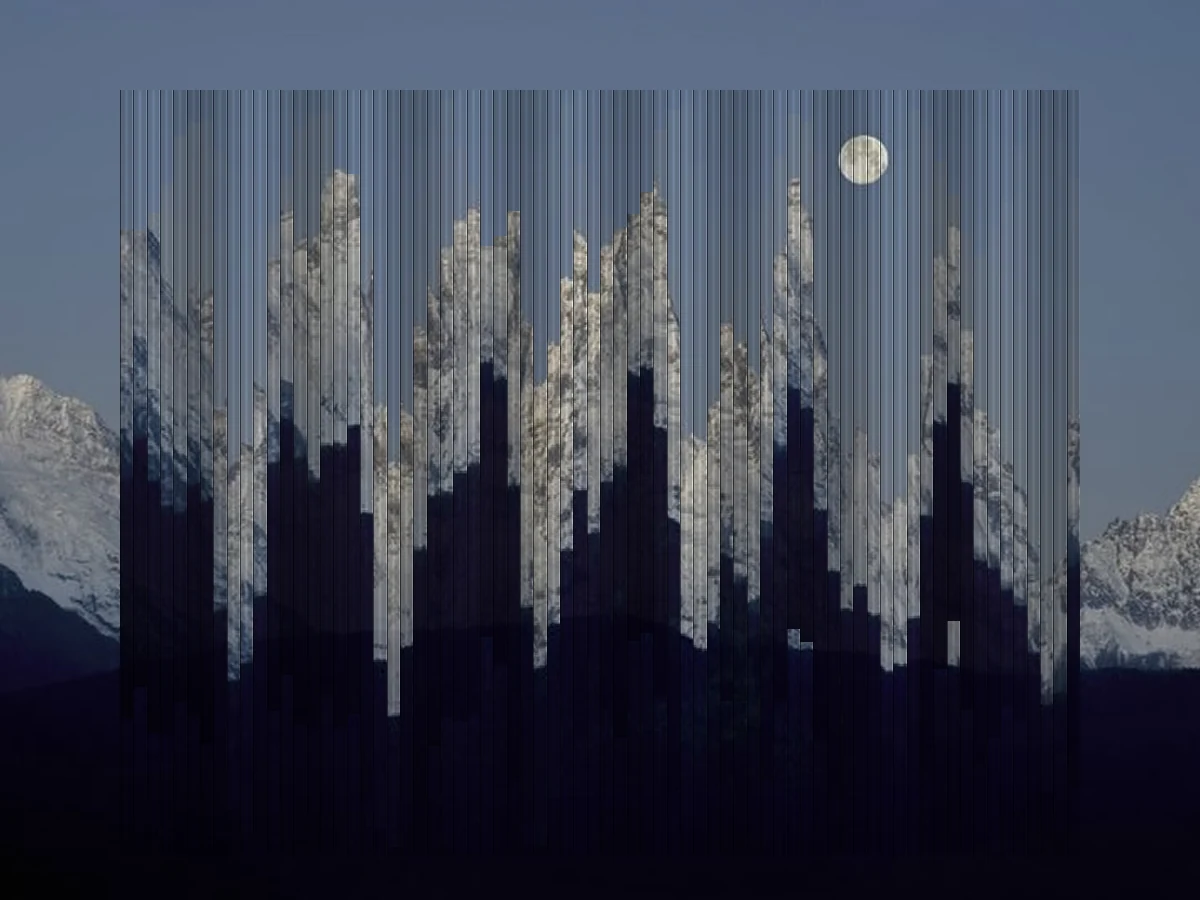
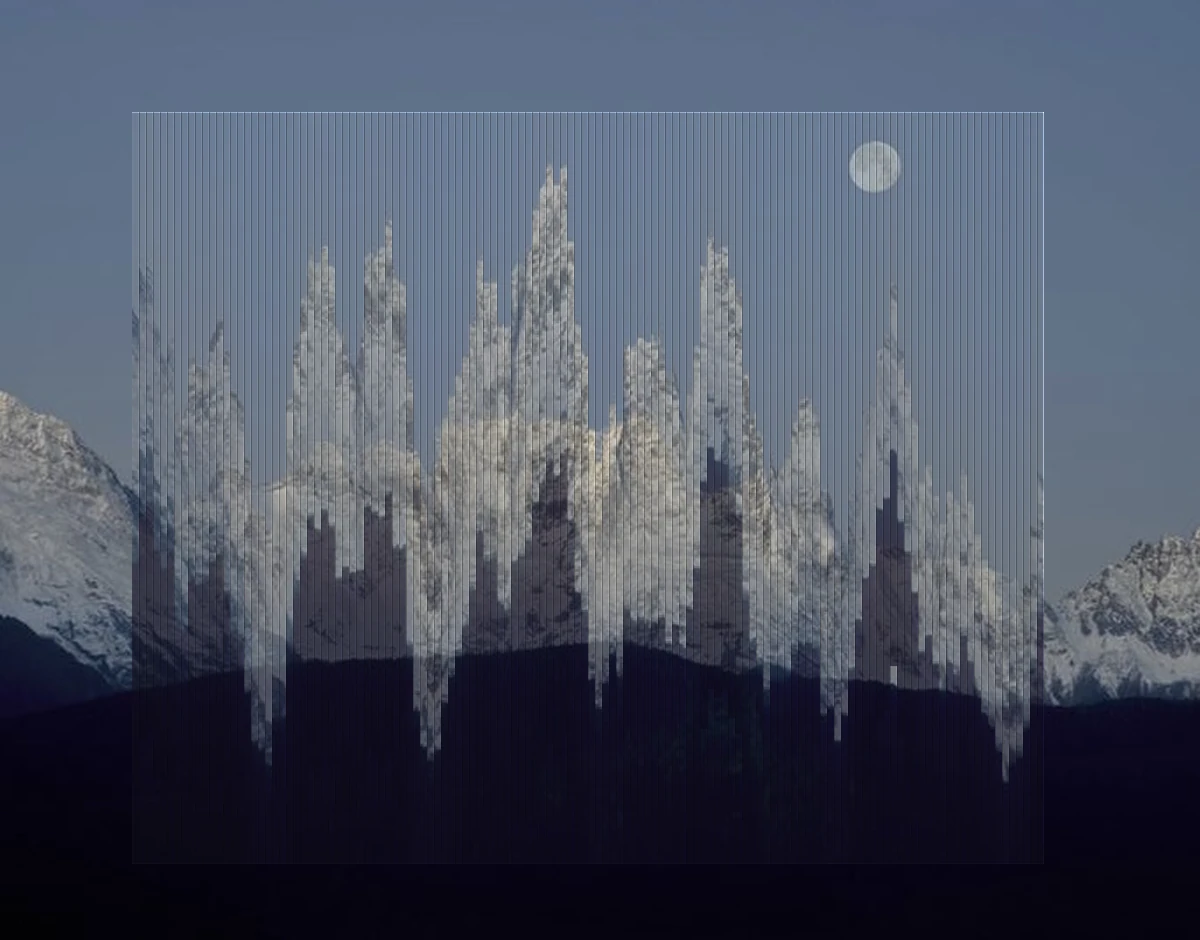
Glossy effect v2: match the reference more closely, thin see-through fluted-glass flutes on a clean pane with fine sawtooth spikes instead of blocky opaque blades (regenerate the 4 Local AI timeline photos + scripts/glossy.py)

diff --git a/scripts/glossy.py b/scripts/glossy.py
@@ -1,10 +1,12 @@
 import numpy as np
 from PIL import Image, ImageOps
 
-def glossy_columns(src, out, target=(1200,900), n=72, reg=(0.10,0.10,0.90,0.95), seed=7, alpha=0.92, fmt="WEBP", quality=88):
-    """Reusable 'glass slats' effect: slices a centred region into vertical glass
-    blades that refract a vertically-streaked copy of the scene, with jagged
-    (spiky) tops and a dripping bottom. Works on any photo."""
+def glossy_columns(src, out, target=(1200,940), n=130, reg=(0.11,0.12,0.87,0.92), seed=7, alpha=0.60, fmt="WEBP", quality=90):
+    """Reusable semi-transparent 'fluted glass' effect: a clean rectangular glass
+    pane over the photo, sliced into many thin vertical flutes that each refract a
+    vertically-stretched, upward-shifted copy of the scene. Internal horizontal
+    edges (ridge lines, horizons) become fine sawtooth spikes; the pane stays
+    see-through. Matches the reference glass-slat photo."""
     im = ImageOps.fit(Image.open(src).convert("RGB"), target, method=Image.LANCZOS, centering=(0.5,0.5))
     a = np.asarray(im).astype(np.float32); W,H = im.size
     x0,y0,x1,y1 = int(reg[0]*W),int(reg[1]*H),int(reg[2]*W),int(reg[3]*H)
@@ -15,30 +17,27 @@ def glossy_columns(src, out, target=(1200,900), n=72, reg=(0.10,0.10,0.90,0.95),
         xa=int(round(i*sw)); xb=int(round((i+1)*sw))
         if xb<=xa: continue
         t=i/n
-        dy=(0.16*rh)+(0.12*rh)*np.sin(2*np.pi*t*6+0.4)+(0.07*rh)*np.sin(2*np.pi*t*13+1.1)+(0.06*rh)*(rng.random()-0.5)
-        scale=1.12+0.18*(0.5+0.5*np.sin(2*np.pi*t*5+0.7))
+        dy=(0.11*rh)+(0.10*rh)*np.sin(2*np.pi*t*5+0.4)+(0.07*rh)*np.sin(2*np.pi*t*11+1.1)+(0.06*rh)*(rng.random()-0.5)
+        scale=1.16+0.14*(0.5+0.5*np.sin(2*np.pi*t*7+0.7))
         src_y=(yy-cy)/scale+cy+dy
-        syi=np.round(src_y).astype(int); valid=(syi>=0)&(syi<=rh-1)
+        syi=np.round(src_y).astype(int); over=(syi>rh-1)
         transformed=R[np.clip(syi,0,rh-1)][:,xa:xb,:]; orig=R[:,xa:xb,:]
-        bl=orig*(1-alpha)+transformed*alpha; bl[~valid]=orig[~valid]
-        top=(0.03+0.17*(0.5+0.5*np.sin(2*np.pi*t*8+0.9))+0.05*(rng.random()-0.5))*rh
-        bot=(0.90+0.09*np.sin(2*np.pi*t*7+2.0)+0.04*(rng.random()-0.5))*rh
-        outside=(yy<top)|(yy>bot); bl[outside]=orig[outside]
-        bl=bl*(0.88+0.10*np.sin(2*np.pi*t*9+0.3))
-        gx=np.linspace(-1,1,xb-xa); gloss=(1.0+0.18*np.exp(-(gx**2)/0.05))[None,:,None]
-        bl=np.clip(bl*gloss,0,255); bl[:,0,:]*=0.45
-        if xb-xa>2: bl[:,-1,:]=np.clip(bl[:,-1,:]*1.3,0,255)
+        bl=orig*(1-alpha)+transformed*alpha; bl[over]=orig[over]
+        bl[:,0,:]*=0.72
+        if xb-xa>1: bl[:,-1,:]=np.clip(bl[:,-1,:]*1.12,0,255)
         out_a[y0:y1,xa+x0:xb+x0,:]=bl
+    pane=out_a[y0:y1,x0:x1,:]
+    sheen=1.0+0.05*np.linspace(1,-1,rh)[:,None,None]
+    out_a[y0:y1,x0:x1,:]=np.clip(pane*sheen+6,0,255)
+    for xe in (x0,x1-1): out_a[y0:y1,xe,:]=np.clip(out_a[y0:y1,xe,:]*1.4,0,255)
+    for ye in (y0,y1-1): out_a[ye,x0:x1,:]=np.clip(out_a[ye,x0:x1,:]*1.4,0,255)
     Image.fromarray(np.clip(out_a,0,255).astype("uint8")).save(out, fmt, quality=quality, method=6)
     return out
 
 if __name__ == "__main__":
-    jobs = [
-        ("public/IMG_0883.jpg","public/services/timeline-1.webp",3),
-        ("public/IMG_0890.jpg","public/services/timeline-2.webp",11),
-        ("public/IMG_0896.JPG","public/services/timeline-3.webp",19),
-        ("public/IMG_0887.jpg","public/services/timeline-4.webp",27),
-    ]
     import os
-    for s,o,sd in jobs:
-        glossy_columns(s,o,seed=sd); print("wrote",o,os.path.getsize(o),"bytes")
+    for s,o,sd in [("public/IMG_0883.jpg","public/services/timeline-1.webp",3),
+                   ("public/IMG_0890.jpg","public/services/timeline-2.webp",11),
+                   ("public/IMG_0896.JPG","public/services/timeline-3.webp",19),
+                   ("public/IMG_0887.jpg","public/services/timeline-4.webp",27)]:
+        glossy_columns(s,o,seed=sd); print("wrote",o,os.path.getsize(o))
